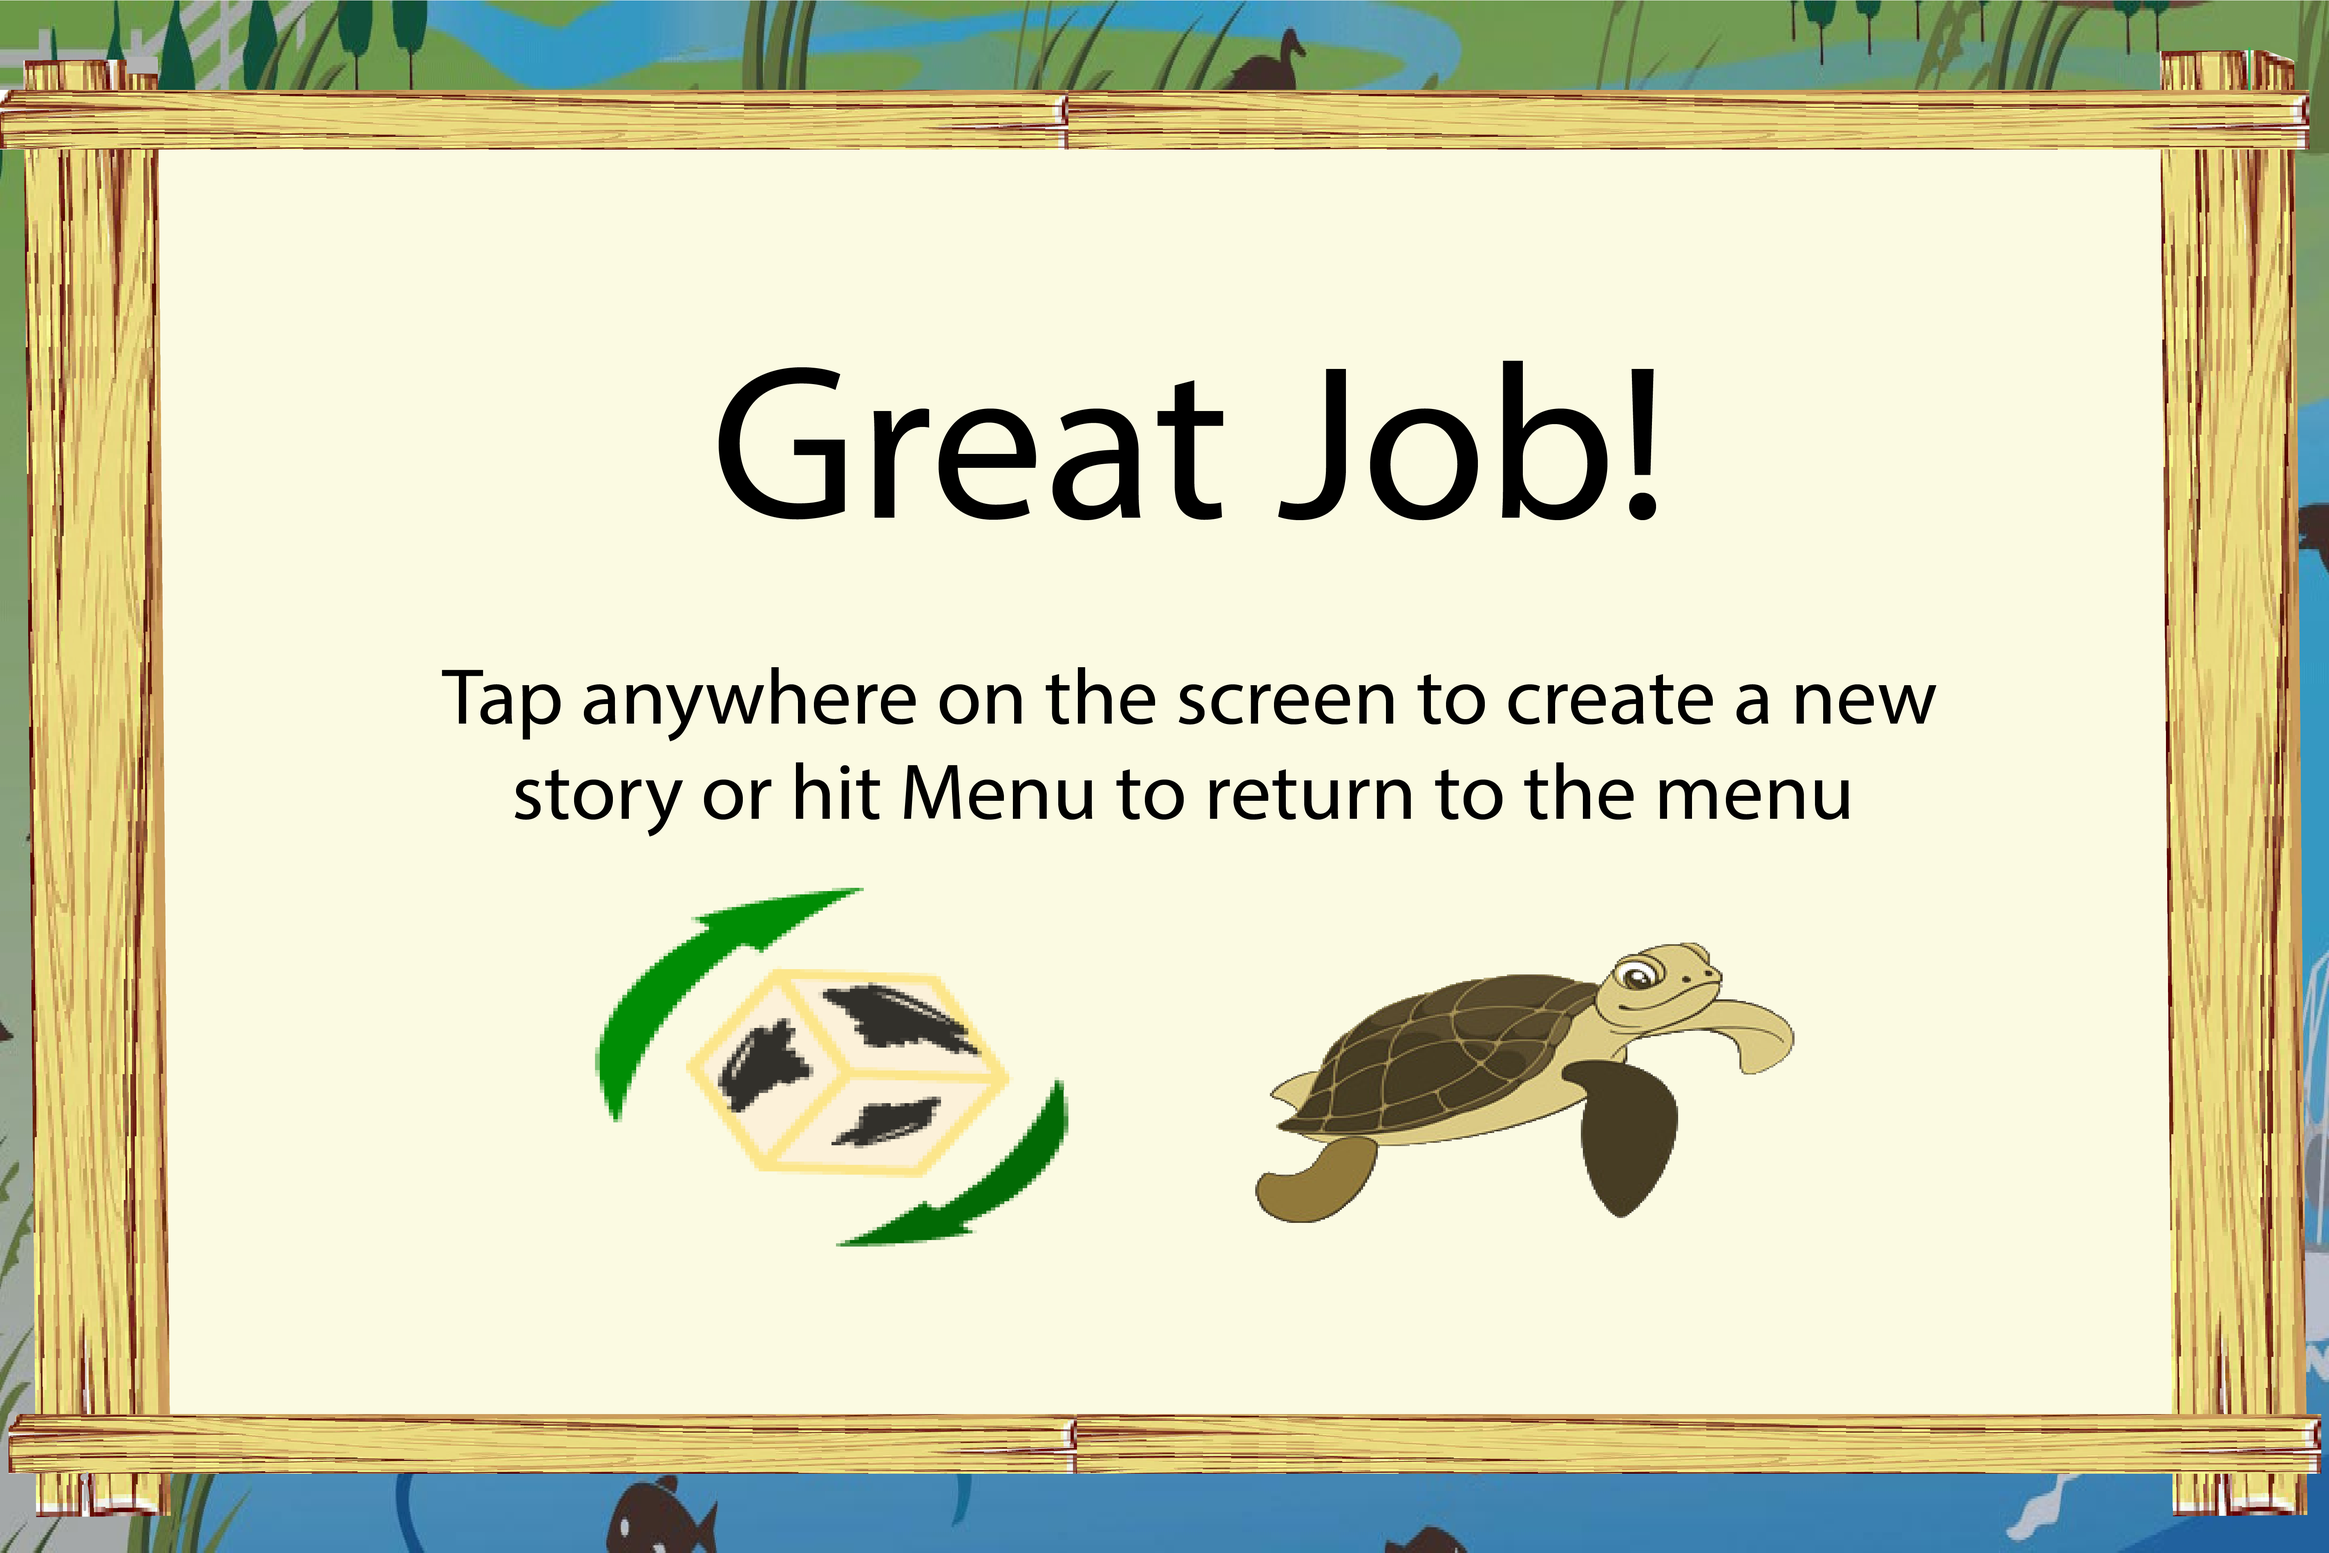
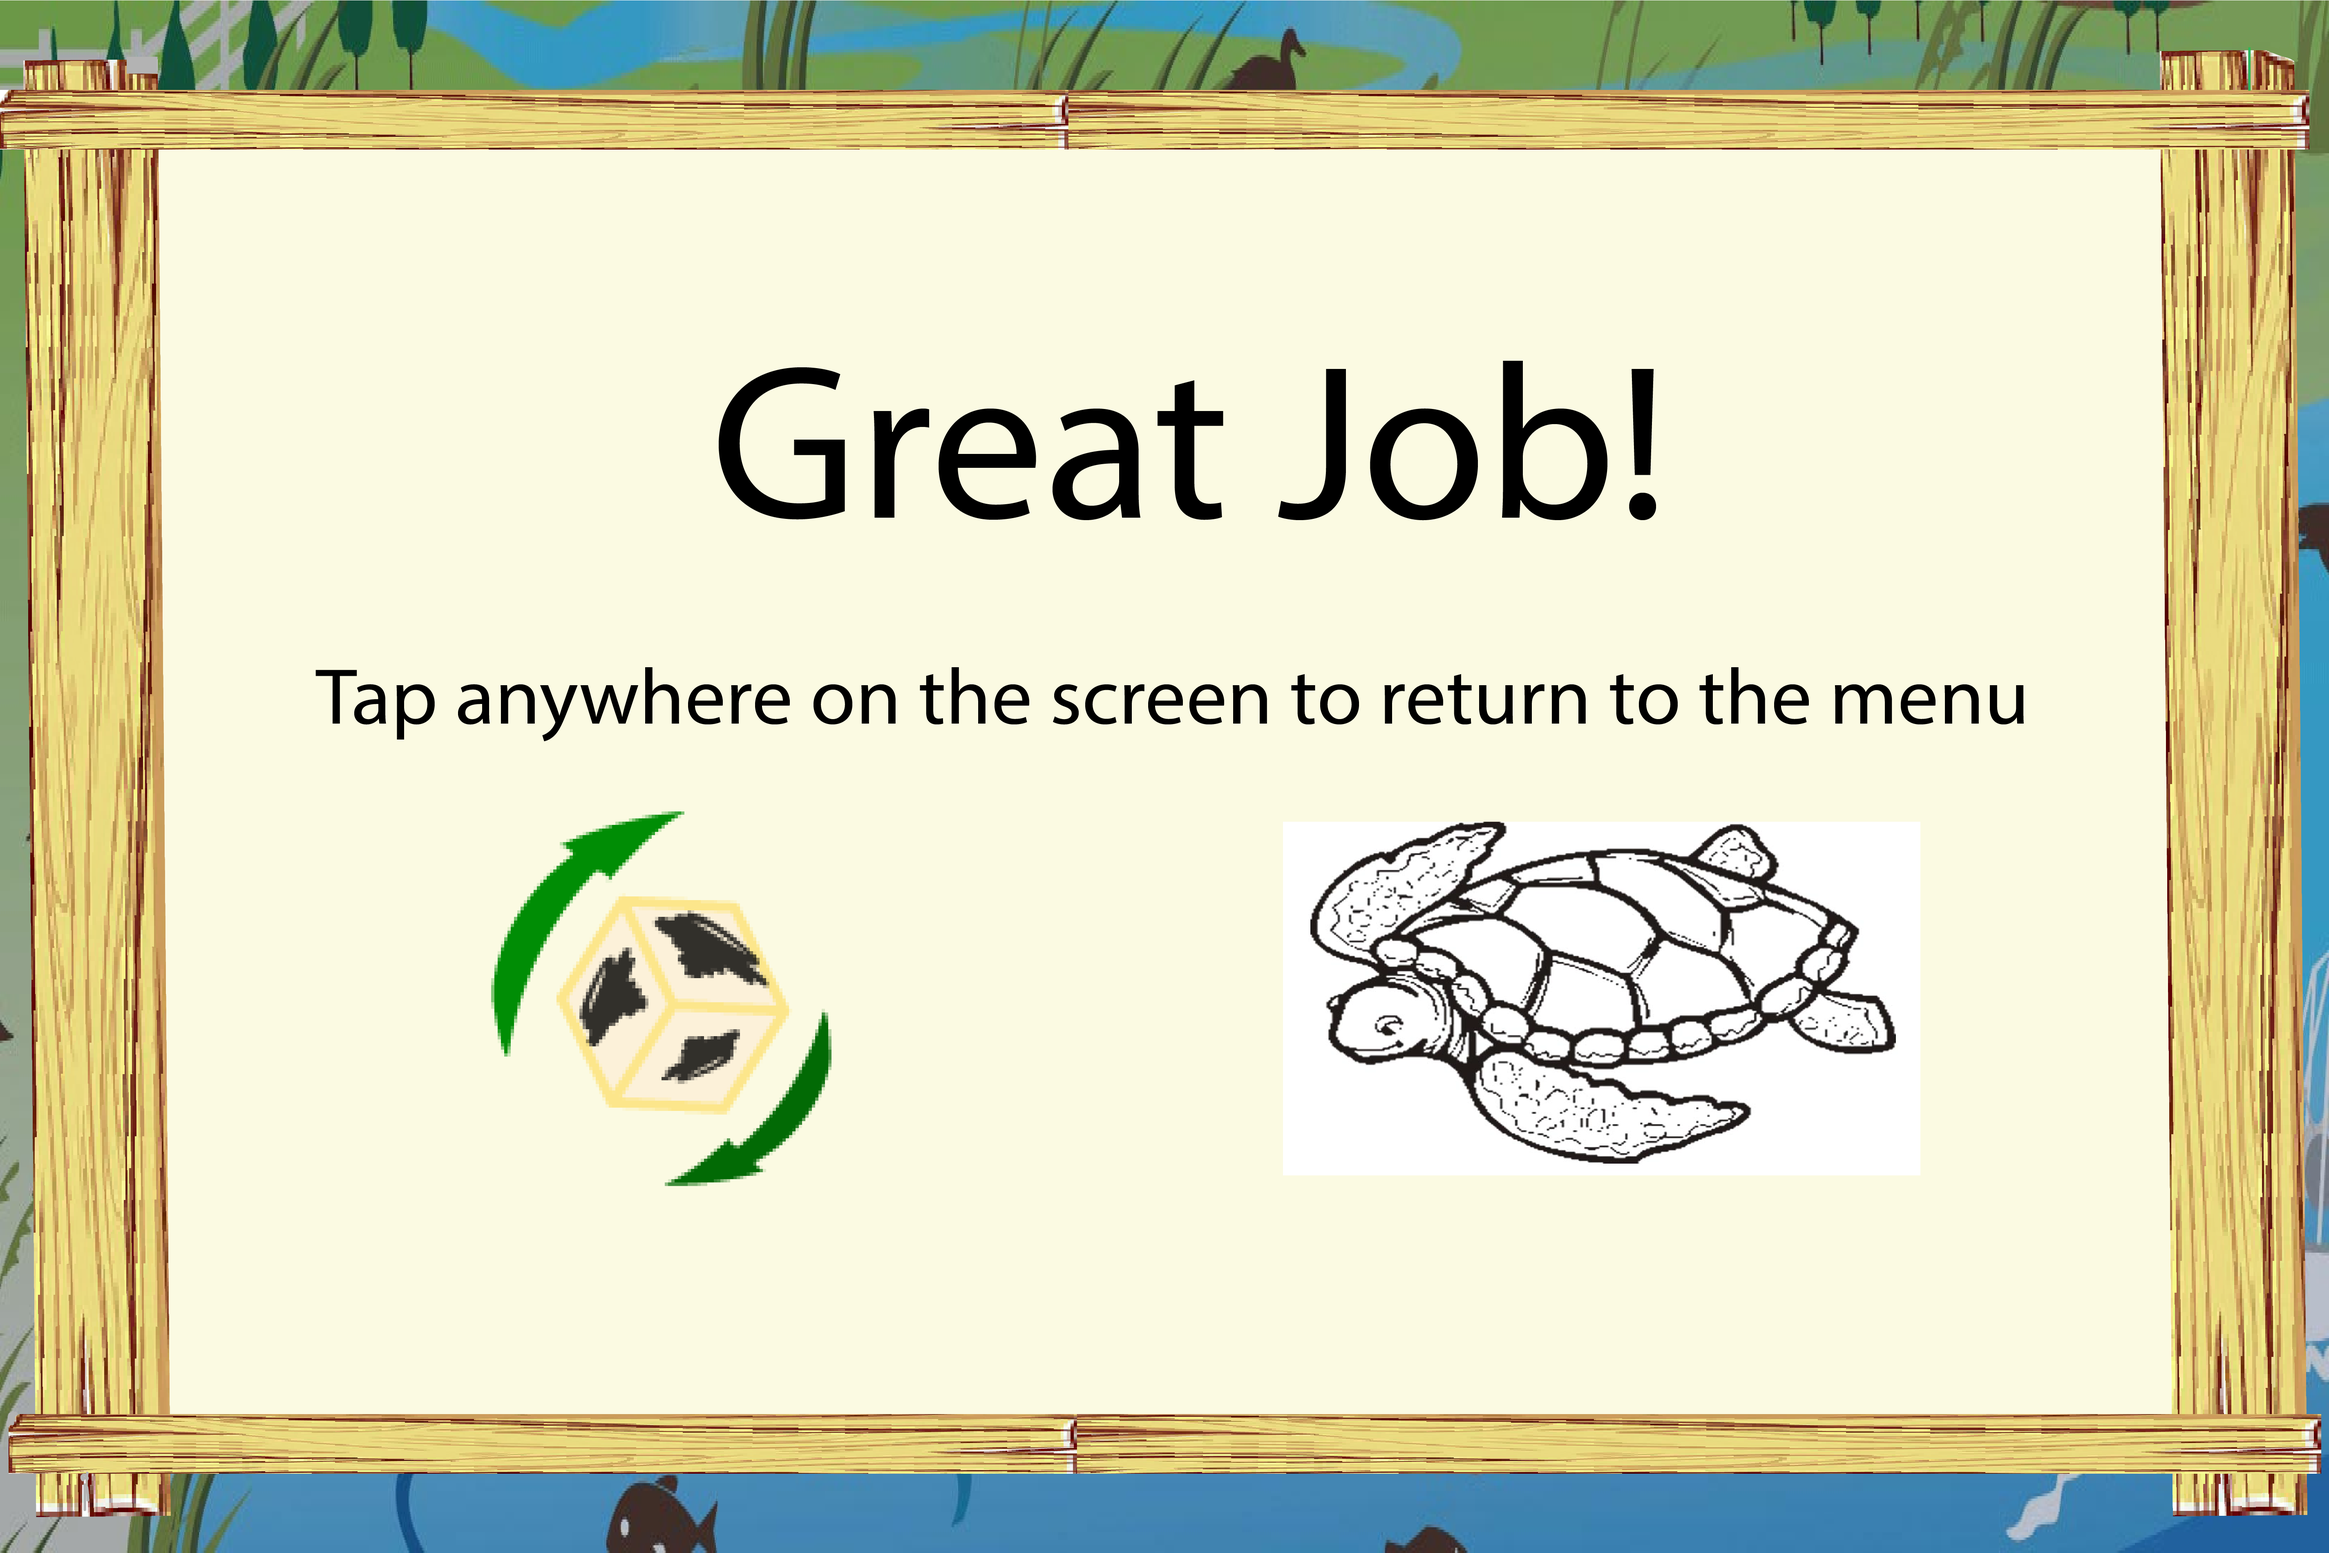
cube game ending screen no longer replays

Changed region(s): [[0.1874, 0.4967, 0.8432, 0.8072], [0.1249, 0.4346, 0.8744, 0.4657]]

diff --git a/src/main/java/cubeGame/view/CubeGameScreen.java b/src/main/java/cubeGame/view/CubeGameScreen.java
@@ -106,13 +106,13 @@ public class CubeGameScreen extends MGView {
 
 			@Override
 			public void mouseClicked(MouseEvent arg0) {
-				
+			
 				scheduleEndingTimer(60);
 				if (showingTutorial) {
 					showingTutorial = false;
 					control.getWorld().rollDice();
 				} else if (showingEnd) {
-					menu.replayCubeGame();
+					menu.exitGame();
 					try {
 						endingTimer.cancel();
 					} catch (IllegalStateException e) {
@@ -122,7 +122,6 @@ public class CubeGameScreen extends MGView {
 					showingTutorial = false;
 					control.getWorld().rollDice();
 				}
-
 			}
 
 			// Unimplemented mouse methods
@@ -211,9 +210,8 @@ public class CubeGameScreen extends MGView {
 	public void scheduleEndingTimer(int secs) {
 		try {
 			endingTimer.cancel();
-		} catch (IllegalStateException e) {
-			e.printStackTrace();
 		} catch (Exception e) {
+			e.printStackTrace();
 			// In case there is a different kind of exception, do nothing still
 		} finally {
 			endingTimer = new Timer();

diff --git a/src/main/java/menu/view/MenuScreen.java b/src/main/java/menu/view/MenuScreen.java
@@ -219,5 +219,9 @@ public class MenuScreen extends JLayeredPane {
 	public void hideMenuButton() {
 		menuButton.setVisible(false);
 	}
-
+	
+	// Same effect as hitting the menu button
+	public void exitGame() {
+		menuButton.doClick();
+	}
 }
